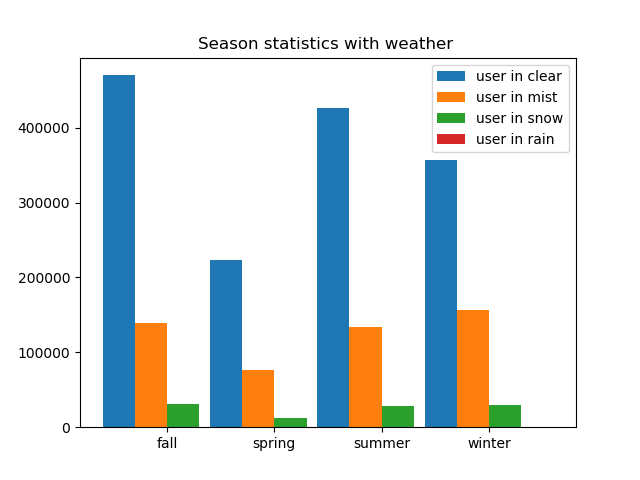
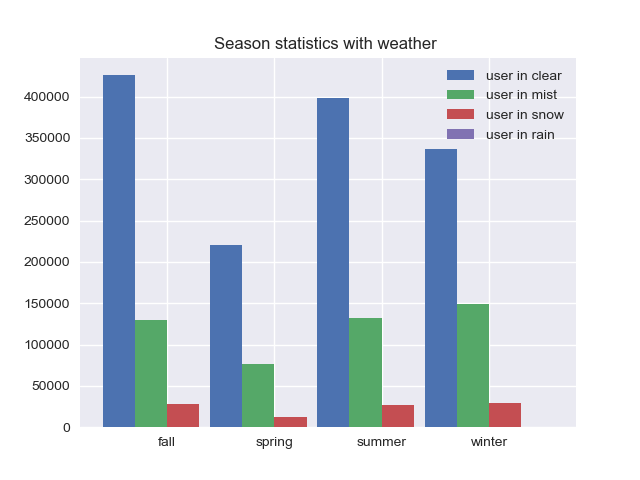
5/2

diff --git a/bikesharing.py b/bikesharing.py
@@ -1,8 +1,9 @@
 import pandas as pd
 import numpy as np
 import matplotlib.pyplot as plt
+import seaborn as sns
 dataframe=pd.read_csv("D:\\bikesharing\\data\\train.csv")
-
+sns.set()
 
 
 dataframe["hour"]=pd.DataFrame(dataframe.datetime.apply(lambda x:x.split()[1].split(":")[0]))
@@ -11,11 +12,32 @@ dataframe["season"]=dataframe.season.map({1:"spring",2:"summer",3:"fall",4:"wint
 dataframe["workingday"]=dataframe.workingday.map({0:"no",1:"yes"})
 dataframe["weather"]=dataframe.weather.map({1:"Clear",2:"Mist + Cloudy",3:"Light Snow",4:"Heavy Rain"})
 
-#Clear_counts=dataframe[dataframe["weather"]=="Clear"]
-#Mist_counts=dataframe[dataframe["weather"]=="Mist + Cloudy"]
-#Snow_counts=dataframe[dataframe["weather"]=="Light Snow"]
-#Rain_counts=dataframe[dataframe["weather"]=="Heavy Rain"]
+#Count distribution
 
+quartiles = pd.cut(dataframe["count"],10)
+def get_stats(group):
+    return {'counts': group.sum()}
+
+grouped = dataframe["count"].groupby(quartiles)
+count_distribution_amount = grouped.apply(get_stats).unstack()
+df=pd.DataFrame(count_distribution_amount)
+
+
+
+df.plot(kind='bar',figsize=(9, 7),rot=45)
+plt.title("count distribution")
+plt.show()
+#Count distribution approximate to normal distribution
+
+
+#Removal of outliers 
+
+upper_bound=dataframe['count'].mean()+3*dataframe['count'].std()
+lower_bound=dataframe['count'].mean()-3*dataframe['count'].std()
+dataframe=dataframe[dataframe["count"]<upper_bound]
+dataframe=dataframe[dataframe["count"]>lower_bound]
+
+#weather statistics
 
 Clear_casual=dataframe[dataframe["weather"]=="Clear"]["casual"].sum()
 Mist_casual=dataframe[dataframe["weather"]=="Mist + Cloudy"]["casual"].sum()
@@ -27,9 +49,6 @@ Mist_registered=dataframe[dataframe["weather"]=="Mist + Cloudy"]["registered"].s
 Snow_registered=dataframe[dataframe["weather"]=="Light Snow"]["registered"].sum()
 Rain_registered=dataframe[dataframe["weather"]=="Heavy Rain"]["registered"].sum()
 
-
-
-#weather statistics
 index=["Clear","Mist","Snow","Rain"]
 values1=[Clear_registered,Mist_registered,Snow_registered,Rain_registered]
 values2=[Clear_casual,Mist_casual,Snow_casual,Rain_casual]
@@ -38,37 +57,51 @@ plt.bar(index,values2,color='red',bottom=values1)
 plt.title("Weather statistics bar chart ")
 plt.legend(["number of registered user ","number of non-registered user"])
 plt.show()
+#Most of the data is on clear days,there is little data on rainy days
+
+
+# hours statistics with weather
 
 clear_data=dataframe[dataframe["weather"]=="Clear"]
 mist_data=dataframe[dataframe["weather"]=="Mist + Cloudy"]
 snow_data=dataframe[dataframe["weather"]=="Light Snow"]
 rain_data=dataframe[dataframe["weather"]=="Heavy Rain"]
 
-# hours statistics with weather
-y1=clear_data.groupby('hour')['count'].sum()
-y2=mist_data.groupby('hour')['count'].sum()
-y3=snow_data.groupby('hour')['count'].sum()
-#y4=rain_data.groupby('hour')['count'].sum()  Only one line
-y4=pd.DataFrame([0,0,0,0,0,0,0,0,0,0,0,0,0,0,0,0,0,0,164,0,0,0,0,0],range(24),)
+y1=clear_data.groupby('hour')['count'].mean()
+y2=mist_data.groupby('hour')['count'].mean()
+y3=snow_data.groupby('hour')['count'].mean()
+#y4=rain_data.groupby('hour')['count'].mean()  Only one line
+y4_data=[0]*24
+y4_data[17]=164
 x1=range(24)
-
-plt.plot(x1,y1,'r',x1,y2,'b',x1,y3,'g',x1,y4,'y')
-plt.title("Hour statistics with weather ")
+y4=pd.DataFrame(y4_data,range(24),)
+plt.plot(x1,y1,'ro-',x1,y2,'bo-',x1,y3,'go-',x1,y4,'yo-')
+plt.title("Hour mean statistics with weather ")
 plt.legend(["number of user in clear","number of user in mist","number of user in snow","number of user in rain"])
+plt.xlabel("Hours")
+plt.ylabel("Number of users")
 plt.show()
+#The morning peak is at eight in the morning and the evening peak is at seventeen in the evening
+
 
 #month statistics
-z1=clear_data.groupby('month')['count'].sum()
-z2=mist_data.groupby('month')['count'].sum()
-z3=snow_data.groupby('month')['count'].sum()
-#z4=rain_data.groupby('month')['count'].sum() Only one line
-z4=pd.DataFrame([164,0,0,0,0,0,0,0,0,0,0,0],range(12),)
-x2=range(12)
+z1=clear_data.groupby('month')['count'].mean()
+z2=mist_data.groupby('month')['count'].mean()
+z3=snow_data.groupby('month')['count'].mean()
+#z4=rain_data.groupby('month')['count'].mean() Only one line
+z4_data=[0]*12
+z4_data[0]=164
+z4=pd.DataFrame(z4_data,range(12),)
+x2=range(1,13)
 
-plt.plot(x2,z1,'r',x2,z2,'b',x2,z3,'g',x2,z4,'y')
-plt.title("Month statistics with weather ")
+plt.plot(x2,z1,'ro-',x2,z2,'bo-',x2,z3,'go-',x2,z4,'yo-')
+plt.title("Month mean statistics with weather ")
 plt.legend(["user in clear","user in mist","user in snow","user in rain"])
+plt.xlabel("Month")
+plt.ylabel("Number of users")
+plt.xticks(range(1,13))
 plt.show()
+#January has the fewest users
 
 #season statistics
 m1=clear_data.groupby('season')['count'].sum()
@@ -86,15 +119,18 @@ plt.title("Season statistics with weather ")
 plt.xticks(index+1.5*bw,['fall','spring','summer','winter'])
 plt.legend(["user in clear","user in mist","user in snow","user in rain"])
 plt.show()
+#Summer and fall has more users and there is less users in spring and winter
 
-#distribution
-quartiles = pd.cut(dataframe["count"],10)
-def get_stats(group):
-    return {'counts': group.sum()}
 
-grouped = dataframe["count"].groupby(quartiles)
-count_distribution_amount = grouped.apply(get_stats).unstack()
-df=pd.DataFrame(count_distribution_amount)
-df.plot(kind='bar')
-plt.title("count distribution")
+
+#Correlation matrix
+corr = dataframe.corr()
+corr=corr.round(2)
+f, ax = plt.subplots(figsize=(9, 6))
+sns.heatmap(corr, xticklabels=corr.columns,yticklabels=corr.columns,annot=True,cmap='coolwarm')
+label_y = ax.get_yticklabels()
+plt.setp(label_y, rotation=360, horizontalalignment='right')
+label_x = ax.get_xticklabels()
+plt.setp(label_x, rotation=45, horizontalalignment='right')
+plt.title("Correlation matrix")
 plt.show()
